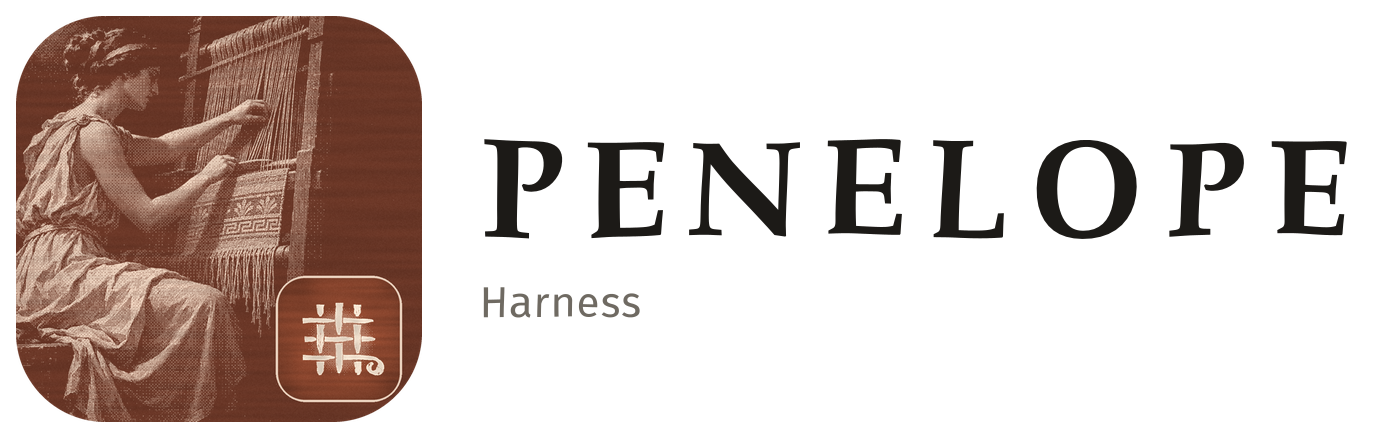
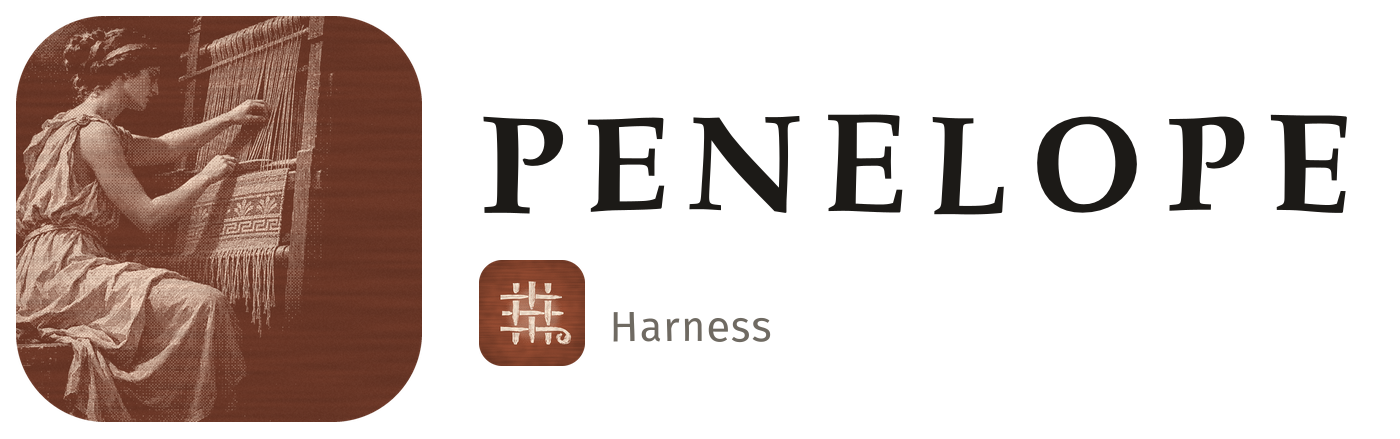
Brand: picture without the sign, the sign as a file of its own

diff --git a/brand/BRAND.md b/brand/BRAND.md
@@ -12,7 +12,7 @@ The files in this folder are a copy of `brand/penelope/` in the Laertes folder. 
 | File | Use |
 |---|---|
 | `mark.svg`, `mark-ink.svg`, `mark-paper.svg` | the weave in colour and in one colour |
-| `logo.png` | the emblem: a weaver at her loom in a dot screen, the woven sign as seal, 1024 pixels |
+| `logo.png` | the picture: a weaver at her loom in a dot screen, 1024 pixels |
 | `symbol.png` | the painted sign alone, 1024 pixels |
 | `logo.svg` | the flat tile as a vector file |
 | `lockup.svg`, `lockup.png` | weave, name and the word Harness |
